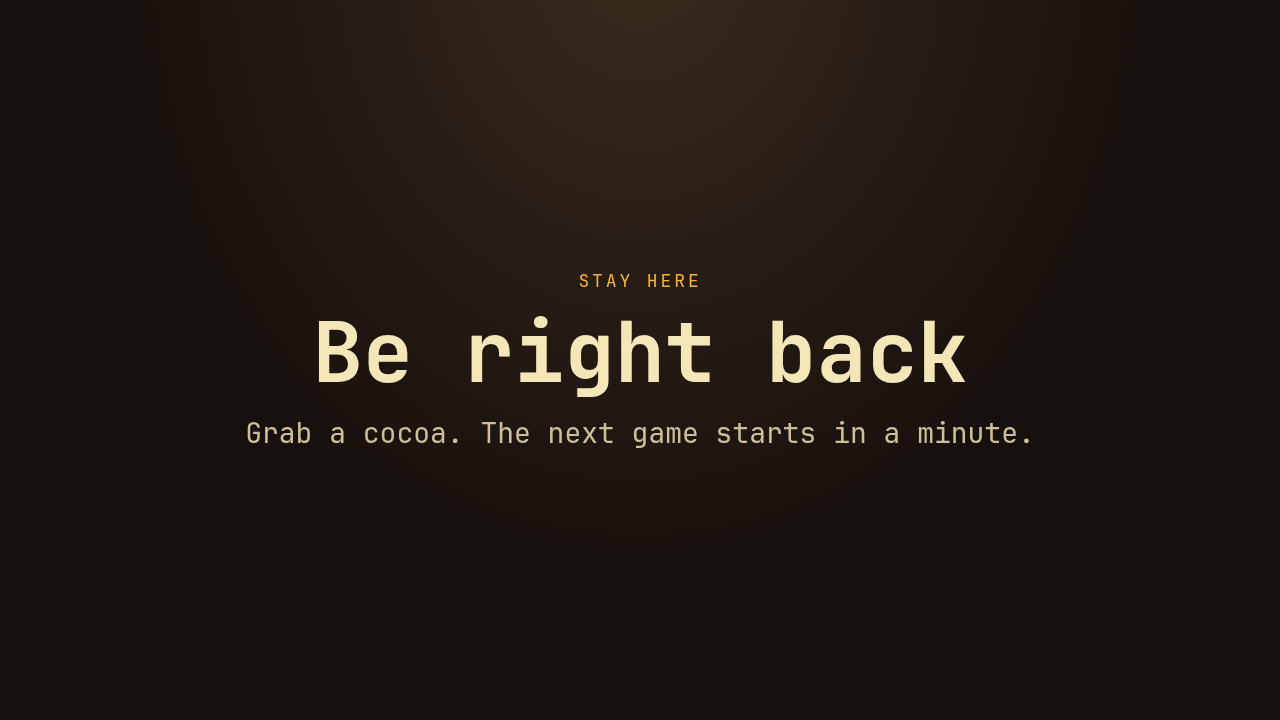
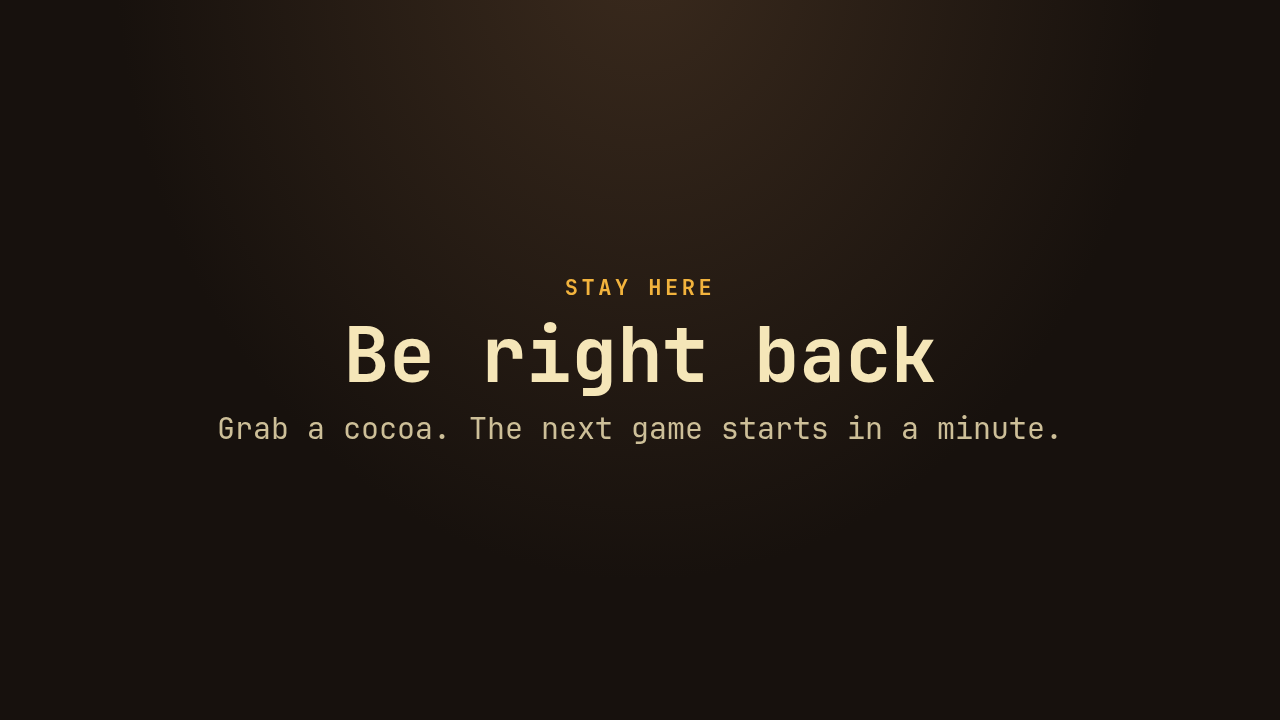
Polish overlay bars, prize rows, and the gallery.
Lower thirds are a 104px broadcast bar above the ticker, prize checkboxes are normal-sized rows, and the gallery shows transparent art on a checkerboard.

diff --git a/server/overlayhtml.js b/server/overlayhtml.js
@@ -33,71 +33,90 @@ export function logoUri(publicDir, sponsor) {
   return dataUri(path.join(publicDir, hub.replace(/^\//, "")));
 }
 
+const TICKER = 42;
+const BAR = 104;
+
 export function frameHtml() {
-  return stage(`<div style="position:absolute;inset:0 0 42px 0;border:3px solid rgba(242,179,61,.9);border-bottom:0"></div>
-    <div style="position:absolute;top:28px;left:28px;max-width:640px;padding:14px 18px;border:2px solid #f2b33d;border-radius:16px;background:rgba(23,17,13,.9)">
-      <div style="color:#f2b33d;font-size:15px;letter-spacing:.14em;text-transform:uppercase">On the air</div>
-      <div style="font-size:28px;font-weight:700;line-height:1.25">Birthday + Christmas Stream</div>
-      <div style="margin-top:6px;color:#cdbf98;font-size:20px">Raising $10K for freeCodeCamp · tilt.fyi/9va4uz7GEn</div>
+  return stage(`<div style="position:absolute;inset:0 0 ${TICKER}px 0;border:4px solid #f2b33d;border-bottom:0"></div>
+    <div style="position:absolute;top:32px;left:32px;display:flex;max-width:980px;background:#17110d;border:3px solid #f2b33d">
+      <div style="width:12px;flex:none;background:#f2b33d"></div>
+      <div style="padding:16px 26px 18px 22px">
+        <div style="color:#f2b33d;font-size:20px;font-weight:700;letter-spacing:.16em;text-transform:uppercase">On the air</div>
+        <div style="margin-top:4px;font-size:46px;font-weight:700;line-height:1.05">Birthday + Christmas Stream</div>
+        <div style="margin-top:8px;color:#f5e6b8;font-size:26px;line-height:1.2">Raising $10K for freeCodeCamp · tilt.fyi/9va4uz7GEn</div>
+      </div>
     </div>`);
 }
 
 export function sceneHtml({ kicker, title, detail, qr }) {
-  const code = qr ? `<img alt="" src="${qr}" style="width:220px;height:220px;background:#f5e6b8;border-radius:12px;padding:10px">` : "";
-  return stage(`<div style="height:720px;display:flex;flex-direction:column;align-items:center;justify-content:center;text-align:center;padding:64px">
-      <div style="color:#f2b33d;letter-spacing:.16em;text-transform:uppercase;font-size:18px">${esc(kicker)}</div>
-      <div style="margin-top:16px;font-size:84px;font-weight:700;line-height:1.05">${esc(title)}</div>
-      <div style="margin-top:18px;max-width:860px;color:#cdbf98;font-size:28px">${esc(detail)}</div>
+  const code = qr ? `<img alt="" src="${qr}" style="width:248px;height:248px;background:#f5e6b8;border-radius:12px;padding:12px">` : "";
+  return stage(`<div style="height:720px;display:flex;flex-direction:column;align-items:center;justify-content:center;text-align:center;padding:48px 56px">
+      <div style="color:#f2b33d;letter-spacing:.16em;text-transform:uppercase;font-size:22px;font-weight:700">${esc(kicker)}</div>
+      <div style="margin-top:14px;font-size:76px;font-weight:700;line-height:1.02">${esc(title)}</div>
+      <div style="margin-top:16px;color:#cdbf98;font-size:30px;line-height:1.25;white-space:nowrap">${esc(detail)}</div>
       ${code ? `<div style="margin-top:28px">${code}</div>` : ""}
     </div>`, { opaque: true });
+}
+
+/** Full-width lower third, 104px tall, sitting just above the 42px ticker. */
+export function broadcastBar({ eyebrow, title, aside = "" }) {
+  return stage(`<div style="position:absolute;left:0;right:0;bottom:${TICKER}px;height:${BAR}px;display:flex;background:#17110d">
+      <div style="width:12px;flex:none;background:#f2b33d"></div>
+      <div style="flex:1;min-width:0;display:flex;align-items:center;justify-content:space-between;padding:0 28px 0 22px">
+        <div style="min-width:0">
+          <div style="color:#f2b33d;font-size:18px;font-weight:700;letter-spacing:.14em;text-transform:uppercase;line-height:1">${esc(eyebrow)}</div>
+          <div style="margin-top:6px;font-size:40px;font-weight:700;line-height:1.05;white-space:nowrap;overflow:hidden;text-overflow:ellipsis">${esc(title)}</div>
+        </div>
+        ${aside}
+      </div>
+    </div>`);
 }
 
 export function lowerHtml({ time, name, presenters = [], logoUris = [] }) {
   const logos = presenters.map((sponsor, index) => {
     const uri = logoUris[index];
-    const img = uri ? `<img alt="" src="${uri}" style="height:56px;max-width:180px">` : "";
-    return `<span style="display:flex;align-items:center;gap:10px">${img}<b>${esc(sponsor.name)}</b></span>`;
+    if (uri) return `<img alt="${esc(sponsor.name)}" src="${uri}" style="height:64px;max-width:220px;object-fit:contain">`;
+    return `<b style="font-size:24px;color:#f2b33d">${esc(sponsor.name)}</b>`;
   }).join("");
-  const by = presenters.length ? `<div style="margin-top:6px;display:flex;gap:16px;align-items:center;color:#f2b33d;font-size:22px">Presented by ${logos}</div>` : "";
-  return stage(`<div style="position:absolute;left:40px;bottom:58px;max-width:1100px;padding:16px 20px;background:rgba(23,17,13,.92);border-left:8px solid #f2b33d;border-radius:14px">
-      <div style="color:#f2b33d;font-size:18px">${esc(time)}</div>
-      <div style="font-size:40px;font-weight:700;line-height:1.15">${esc(name)}</div>
-      ${by}
-    </div>`);
+  const aside = logos ? `<div style="display:flex;align-items:center;gap:18px;margin-left:24px;flex:none">${logos}</div>` : "";
+  return broadcastBar({ eyebrow: time, title: name, aside });
 }
 
 export function slateHtml({ name, prize, link, logo }) {
-  const img = logo ? `<img alt="" src="${logo}" style="max-height:180px;max-width:640px">` : "";
-  return stage(`<div style="height:720px;display:flex;flex-direction:column;align-items:center;justify-content:center;text-align:center;padding:48px">
-      ${img}
-      <div style="margin-top:22px;font-size:54px;font-weight:700">${esc(name)}</div>
-      <div style="margin-top:10px;font-size:28px;color:#cdbf98">${esc(prize || "On the show")}</div>
-      <div style="margin-top:14px;font-size:24px;color:#f2b33d">${esc(link || "")}</div>
+  const img = logo ? `<img alt="" src="${logo}" style="height:160px;width:auto;max-width:860px;object-fit:contain">` : "";
+  return stage(`<div style="height:720px;display:flex;flex-direction:column;align-items:center;justify-content:center;text-align:center;padding:40px 64px">
+      <div style="height:180px;display:flex;align-items:center;justify-content:center">${img}</div>
+      <div style="margin-top:8px;font-size:52px;font-weight:700;line-height:1.1">${esc(name)}</div>
+      <div style="margin-top:10px;font-size:28px;color:#cdbf98;line-height:1.3">${esc(prize || "On the show")}</div>
+      <div style="margin-top:12px;font-size:24px;color:#f2b33d">${esc(link || "")}</div>
     </div>`, { opaque: true });
 }
 
 export function wallHtml(groups) {
   const columns = groups.map((group) => {
     const items = group.sponsors.map((sponsor) => {
-      const img = sponsor.logo ? `<img alt="" src="${sponsor.logo}" style="height:54px;max-width:180px">` : `<b>${esc(sponsor.name)}</b>`;
-      return `<div style="display:flex;flex-direction:column;align-items:center;gap:6px;min-width:180px">${img}<span style="font-size:16px">${esc(sponsor.name)}</span></div>`;
+      const img = sponsor.logo
+        ? `<img alt="" src="${sponsor.logo}" style="width:250px;height:76px;object-fit:contain">`
+        : `<b style="font-size:26px;line-height:76px">${esc(sponsor.name)}</b>`;
+      return `<div style="width:270px;display:flex;flex-direction:column;align-items:center;justify-content:flex-end;gap:8px">${img}<span style="font-size:16px;line-height:1.15;text-align:center;white-space:nowrap">${esc(sponsor.name)}</span></div>`;
     }).join("");
-    return `<section style="margin-top:18px"><div style="color:#f2b33d;letter-spacing:.14em;text-transform:uppercase;font-size:14px">${esc(group.tier)}</div><div style="margin-top:10px;display:flex;flex-wrap:wrap;justify-content:center;gap:18px 28px">${items}</div></section>`;
+    return `<section style="margin-top:18px"><div style="color:#f2b33d;letter-spacing:.16em;text-transform:uppercase;font-size:16px;font-weight:700">${esc(group.tier)}</div><div style="margin-top:10px;display:flex;flex-wrap:wrap;justify-content:center;align-items:flex-end;gap:14px 18px">${items}</div></section>`;
   }).join("");
-  return stage(`<div style="height:720px;padding:36px 48px;text-align:center"><div style="font-size:42px;font-weight:700">Thank you, sponsors</div><div style="color:#cdbf98">Raising $10,000 for freeCodeCamp</div>${columns}</div>`, { opaque: true });
+  return stage(`<div style="height:720px;display:flex;flex-direction:column;align-items:center;justify-content:center;padding:24px 32px;text-align:center"><div style="font-size:48px;font-weight:700;line-height:1.05">Thank you, sponsors</div><div style="margin-top:6px;color:#cdbf98;font-size:22px">Raising $10,000 for freeCodeCamp</div>${columns}</div>`, { opaque: true });
 }
 
 export function guestLowerHtml({ name, handle, time }) {
   const who = handle ? `${name}, @${String(handle).replace(/^@/, "")}` : name;
-  return lowerHtml({ time: time || "", name: `Guest: ${who}` });
+  const eyebrow = time ? `Guest · ${time}` : "Guest";
+  return broadcastBar({ eyebrow, title: who });
 }
 
 export function winnerTemplateHtml() {
-  return stage(`<div style="position:absolute;left:40px;right:40px;bottom:58px;padding:18px 22px;background:rgba(23,17,13,.94);border-left:8px solid #f2b33d;border-radius:14px">
-      <div style="color:#f2b33d;letter-spacing:.14em;text-transform:uppercase">Winner</div>
-      <div style="font-size:48px;font-weight:700">Winner!</div>
-      <div style="color:#cdbf98;font-size:24px">Name goes here · prize goes here</div>
-    </div>`);
+  return broadcastBar({
+    eyebrow: "Winner",
+    title: "Winner!",
+    aside: `<div style="margin-left:24px;text-align:right;flex:none"><div style="font-size:28px;font-weight:700">Name goes here</div><div style="margin-top:4px;color:#cdbf98;font-size:20px">Prize goes here</div></div>`,
+  });
 }
 
 export function hostOf(url) {

diff --git a/server/showpages.js b/server/showpages.js
@@ -18,12 +18,44 @@ a { color:var(--gold); }
 h1 { font-size:clamp(1.8rem,4vw,2.6rem); margin:8px 0; }
 .grid { display:grid; grid-template-columns:repeat(auto-fill,minmax(240px,1fr)); gap:14px; }
 .card { padding:14px; border:1px solid var(--line); border-radius:16px; background:rgba(0,0,0,.2); }
-.card img { width:100%; height:135px; object-fit:contain; background:#0e0b09; border-radius:10px; }
+.card img {
+  width:100%; height:148px; object-fit:contain; border-radius:10px;
+  background-color:#8d8d8d;
+  background-image:
+    linear-gradient(45deg, #6f6f6f 25%, transparent 25%),
+    linear-gradient(-45deg, #6f6f6f 25%, transparent 25%),
+    linear-gradient(45deg, transparent 75%, #6f6f6f 75%),
+    linear-gradient(-45deg, transparent 75%, #6f6f6f 75%);
+  background-size:16px 16px;
+  background-position:0 0, 0 8px, 8px -8px, -8px 0;
+}
 .card a.btn, button.btn { display:inline-flex; align-items:center; min-height:44px; margin-top:8px; padding:0 14px; border-radius:999px; background:var(--gold); color:#17110d; text-decoration:none; font-weight:700; border:0; font:inherit; cursor:pointer; }
 label { display:block; margin:12px 0; }
-input, textarea { width:100%; min-height:48px; padding:10px 12px; border-radius:10px; border:1px solid var(--line); background:#100d0b; color:var(--cream); font:inherit; }
-.prize { display:flex; gap:10px; align-items:flex-start; }
+input:not([type="checkbox"]):not([type="radio"]):not([type="hidden"]), textarea { width:100%; min-height:48px; padding:10px 12px; border-radius:10px; border:1px solid var(--line); background:#100d0b; color:var(--cream); font:inherit; }
+input[type="checkbox"], input[type="radio"] {
+  appearance:none; -webkit-appearance:none; width:22px; height:22px; min-width:22px; min-height:22px; margin:0; flex:0 0 22px;
+  border:2px solid var(--gold); background:#100d0b; display:grid; place-content:center; cursor:pointer;
+}
+input[type="checkbox"] { border-radius:6px; }
+input[type="radio"] { border-radius:50%; }
+input[type="checkbox"]:checked, input[type="radio"]:checked { background:var(--gold); }
+input[type="checkbox"]:checked::before { content:""; width:5px; height:9px; border:solid #17110d; border-width:0 2px 2px 0; transform:rotate(45deg) translate(-1px,-1px); }
+input[type="radio"]:checked::before { content:""; width:8px; height:8px; border-radius:50%; background:#17110d; }
+input[type="checkbox"]:disabled { opacity:.45; cursor:not-allowed; }
+label.prize {
+  display:flex; align-items:center; justify-content:flex-start; gap:14px; width:100%; margin:8px 0; padding:12px 14px;
+  min-height:56px; text-align:left; border:1px solid var(--line); border-radius:12px; background:#140f0c; cursor:pointer;
+}
+label.prize > span { display:flex; flex-direction:column; align-items:flex-start; text-align:left; gap:2px; min-width:0; }
+label.prize b { font-weight:700; }
+label.prize:has(input:disabled) { opacity:.55; cursor:not-allowed; }
 .note { color:var(--muted); }
+.l3 { position:fixed; left:0; right:0; bottom:42px; height:104px; display:flex; background:#17110d; }
+.l3 .stripe { width:12px; flex:none; background:#f2b33d; }
+.l3-body { flex:1; min-width:0; display:flex; align-items:center; justify-content:space-between; padding:0 28px 0 22px; gap:24px; }
+.l3 .eye { color:#f2b33d; font-size:18px; font-weight:700; letter-spacing:.14em; text-transform:uppercase; line-height:1; }
+.l3-title { margin-top:6px; font-size:40px; font-weight:700; line-height:1.05; }
+.l3-aside { text-align:right; font-size:28px; font-weight:700; }
 .banner { padding:12px 14px; border-radius:12px; background:rgba(242,179,61,.12); }
 .hp { position:absolute; left:-9999px; }
 .ticker { overflow:hidden; white-space:nowrap; border-top:4px solid var(--gold); border-bottom:4px solid var(--gold); font-size:32px; line-height:64px; }
@@ -79,7 +111,7 @@ export function renderRules() {
 }
 
 export function renderEnter({ prizes, message, error }) {
-  const boxes = prizes.map((prize) => `<label class="prize"><input type="checkbox" name="prize" value="${esc(prize.slug)}" ${prize.closed ? "disabled" : ""}><span><b>${esc(prize.prize)}</b><br><span class="note">${esc(prize.sponsor)}${prize.closed ? " · drawn" : ""}</span></span></label>`).join("");
+  const boxes = prizes.map((prize) => `<label class="prize"><input type="checkbox" name="prize" value="${esc(prize.slug)}" ${prize.closed ? "disabled" : ""}><span><b>${esc(prize.prize)}</b><span class="note">${esc(prize.sponsor)}${prize.closed ? " · drawn" : ""}</span></span></label>`).join("");
   const flash = error ? `<p class="banner">${esc(error)}</p>` : message ? `<p class="banner">${esc(message)}</p>` : "";
   const body = `<div class="wrap"><p class="note">Friday, December 18, 2026</p><h1>Enter the giveaway</h1>
     <p class="banner">No purchase or donation is necessary. Donating does not add entries.</p>
@@ -125,10 +157,8 @@ export function renderDraw({ prizes, log, reveal, error }) {
 }
 
 export function renderWinnerCard({ name, prize, mode }) {
-  const body = `<div style="min-height:100vh;display:flex;align-items:flex-end;padding:48px"><div style="padding:18px 22px;background:rgba(23,17,13,.94);border-left:8px solid #f2b33d;border-radius:14px">
-    <div style="color:#f2b33d;letter-spacing:.14em;text-transform:uppercase">Winner</div>
-    <div style="font-size:64px;font-weight:700">${esc(name || "Winner!")}</div>
-    <div style="font-size:28px;color:#cdbf98">${esc(prize || "")}</div></div></div>`;
+  const aside = prize ? `<div class="l3-aside">${esc(prize)}</div>` : "";
+  const body = `<div class="l3"><div class="stripe"></div><div class="l3-body"><div><div class="eye">Winner</div><div class="l3-title">${esc(name || "Winner!")}</div></div>${aside}</div></div>`;
   return page("Winner", body, { live: true, mode });
 }
 

diff --git a/server/pages.js b/server/pages.js
@@ -83,10 +83,19 @@ h1 em { font-style: italic; color: var(--gold); }
 .banner.warn { background: rgba(200, 50, 43, 0.12); border: 2px solid var(--line); color: var(--muted); }
 label.field, .field { display: flex; flex-direction: column; gap: 6px; }
 .field span, legend { font-family: var(--label); text-transform: uppercase; letter-spacing: 0.08em; font-size: 0.82rem; color: var(--gold); }
-input, select, textarea {
+input:not([type="checkbox"]):not([type="radio"]):not([type="hidden"]), select, textarea {
   width: 100%; padding: 12px 14px; border-radius: 10px; border: 2px solid var(--line);
   background: #140f0c; color: var(--cream); font: inherit; font-size: 1rem;
 }
+input[type="checkbox"], input[type="radio"] {
+  appearance: none; -webkit-appearance: none; width: 22px; height: 22px; min-width: 22px; min-height: 22px;
+  margin: 0; padding: 0; flex: 0 0 22px; border: 2px solid var(--gold); border-radius: 6px;
+  background: #140f0c; display: grid; place-content: center; cursor: pointer;
+}
+input[type="radio"] { border-radius: 50%; }
+input[type="checkbox"]:checked, input[type="radio"]:checked { background: var(--gold); }
+input[type="checkbox"]:checked::before { content: ""; width: 5px; height: 9px; border: solid #17110d; border-width: 0 2px 2px 0; transform: rotate(45deg) translate(-1px, -1px); }
+input[type="radio"]:checked::before { content: ""; width: 8px; height: 8px; border-radius: 50%; background: #17110d; }
 textarea { min-height: 110px; resize: vertical; }
 input.code { font-family: var(--label); letter-spacing: 0.14em; font-size: 1.25rem; text-transform: lowercase; }
 .hint, .quiet { color: var(--muted); margin: 0; }
@@ -95,12 +104,10 @@ input.code { font-family: var(--label); letter-spacing: 0.14em; font-size: 1.25r
 .slot { display: grid; grid-template-columns: 96px 1fr; gap: 10px; align-items: center; padding: 10px 12px; border-top: 1px solid var(--line); }
 .slot:first-child { border-top: 0; }
 .slot time { font-family: var(--label); letter-spacing: 0.06em; font-size: 0.95rem; }
-.slot label.pick { display: flex; gap: 10px; align-items: flex-start; min-height: 44px; }
-.slot label.pick input { width: auto; margin-top: 4px; accent-color: var(--gold); }
+.slot label.pick { display: flex; gap: 12px; align-items: center; justify-content: flex-start; width: 100%; min-height: 44px; text-align: left; }
 .slot.mine { background: rgba(242, 179, 61, 0.08); }
 .slot.taken { color: var(--muted); }
-.check { display: flex; gap: 10px; align-items: flex-start; }
-.check input { width: auto; margin-top: 6px; accent-color: var(--gold); }
+.check { display: flex; gap: 12px; align-items: center; justify-content: flex-start; width: 100%; text-align: left; }
 fieldset { border: 2px solid var(--line); border-radius: 14px; margin: 0; padding: 14px 16px 16px; }
 .meter { height: 10px; border-radius: 999px; background: rgba(245, 230, 184, 0.12); overflow: hidden; }
 .meter span { display: block; height: 100%; background: var(--gold); }

diff --git a/server/guestpages.js b/server/guestpages.js
@@ -16,7 +16,17 @@ h1 { font-size:clamp(1.7rem,4vw,2.4rem); margin:8px 0; }
 .slot { display:grid; grid-template-columns:minmax(0,1fr) auto; gap:8px 12px; padding:12px 0; border-top:1px solid var(--line); }
 .meta { color:var(--muted); font-size:.86rem; }
 .btn, button { display:inline-flex; align-items:center; min-height:44px; padding:0 14px; border-radius:999px; background:var(--gold); color:#17110d; font:inherit; font-weight:700; border:0; text-decoration:none; cursor:pointer; }
-input, select, textarea { width:100%; min-height:44px; margin-top:4px; padding:8px 10px; border-radius:10px; border:1px solid var(--line); background:#100d0b; color:var(--cream); font:inherit; }
+input:not([type="checkbox"]):not([type="radio"]):not([type="hidden"]), select, textarea { width:100%; min-height:44px; margin-top:4px; padding:8px 10px; border-radius:10px; border:1px solid var(--line); background:#100d0b; color:var(--cream); font:inherit; }
+input[type="checkbox"], input[type="radio"] {
+  appearance:none; -webkit-appearance:none; width:22px; height:22px; min-width:22px; min-height:22px; margin:0; flex:0 0 22px;
+  border:2px solid var(--gold); background:#100d0b; display:grid; place-content:center; cursor:pointer;
+}
+input[type="checkbox"] { border-radius:6px; }
+input[type="radio"] { border-radius:50%; }
+input[type="checkbox"]:checked, input[type="radio"]:checked { background:var(--gold); }
+input[type="checkbox"]:checked::before { content:""; width:5px; height:9px; border:solid #17110d; border-width:0 2px 2px 0; transform:rotate(45deg) translate(-1px,-1px); }
+input[type="radio"]:checked::before { content:""; width:8px; height:8px; border-radius:50%; background:#17110d; }
+label.check { display:flex; align-items:center; justify-content:flex-start; gap:12px; width:100%; text-align:left; }
 label { display:block; margin:12px 0; }
 .banner { padding:12px; border-radius:12px; background:rgba(242,179,61,.12); }
 .hp { position:absolute; left:-9999px; }

diff --git a/test/giveaway.test.js b/test/giveaway.test.js
@@ -29,6 +29,8 @@ test("ticker, rules, entry, and draw stay inside the stream rules", async (t) =>
   assert.match(ticker, /No donation needed to enter/);
   assert.match(ticker, /Laravel/);
   for (const line of bannerLines()) assert.ok(line.length < 200 && !line.includes("\n"));
+  assert.equal(bannerLines().some((line) => /Platinum books an hour/i.test(line)), false);
+  assert.match(bannerLines().join("\n"), /\/guests/);
 
   const rules = await fetch(`${base}/rules`);
   const rulesText = await rules.text();
@@ -40,6 +42,8 @@ test("ticker, rules, entry, and draw stay inside the stream rules", async (t) =>
   assert.match(enterText, /name="share"/);
   assert.doesNotMatch(enterText, /name="share"[^>]*checked/);
   assert.match(enterText, /New MacBook Pro/);
+  assert.match(enterText, /input\[type="checkbox"\][\s\S]*width:22px/);
+  assert.match(enterText, /label\.prize[\s\S]*text-align:left/);
 
   const bot = await fetch(`${base}/enter`, {
     method: "POST",

diff --git a/test/guests.test.js b/test/guests.test.js
@@ -97,5 +97,8 @@ test("guest slots stay private until Jason approves them", async (t) => {
   const after = await (await fetch(`${base}/guests`)).text();
   assert.doesNotMatch(after, /Ada Lovelace/);
 
-  assert.match(guestLowerHtml({ name: "Ada Lovelace", handle: "ada", time: "2:00–2:30 PM ET" }), /Guest: Ada Lovelace, @ada/);
+  const lower = guestLowerHtml({ name: "Ada Lovelace", handle: "ada", time: "2:00–2:30 PM ET" });
+  assert.match(lower, /Guest · 2:00–2:30 PM ET/);
+  assert.match(lower, /Ada Lovelace, @ada/);
+  assert.match(lower, /height:104px/);
 });

diff --git a/server/ticker.js b/server/ticker.js
@@ -17,6 +17,6 @@ export function bannerLines() {
     "Thank you to every sponsor on the Christmas Birthday Stream.",
     "Scan the on-screen QR or open the entry page. No donation needed.",
     "Call Santa finale at 7:00 PM ET. Stay through the end.",
-    "Platinum books an hour. Gold books 30 minutes. Come hang out.",
+    `Be a guest. Request a half-hour slot at ${siteUrl}/guests.`,
   ];
 }

diff --git a/docs/overlays.md b/docs/overlays.md
@@ -8,7 +8,7 @@ StreamYard only takes still images: transparent JPG, PNG, or GIF at 1280×720, u
 npm run overlays
 ```
 
-That script renders every PNG with headless Chromium from the sponsors and the schedule, then builds the snow GIFs. Booked Platinum and Gold blocks show up on the matching lower third as “presented by”. Run it again after the bookings change, and commit `public/overlays/`. Approved guests get a `guest-<id>.png` lower third that reads “Guest: Name, @handle”.
+That script renders every PNG with headless Chromium from the sponsors and the schedule, then builds the snow GIFs. Each lower third is a 104px bar just above the 42px ticker zone: segment title, time, and the sponsor logo when a Platinum or Gold block overlaps that hour. Run it again after the bookings change, and commit `public/overlays/`. Approved guests get a `guest-<id>.png` lower third in the same bar, with the guest’s name and handle.
 
 `/overlays` lists each file, a zip of the pack, the ticker, and the short banner lines.
 
